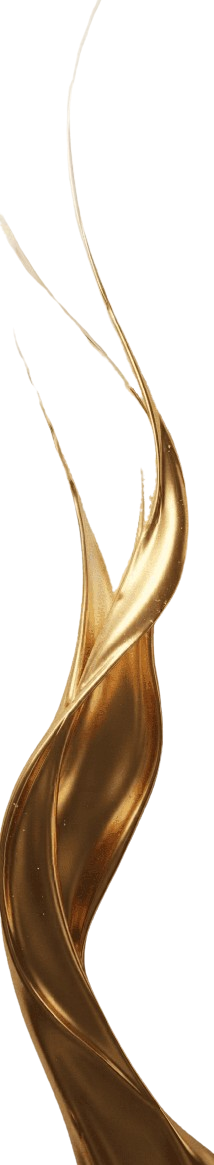
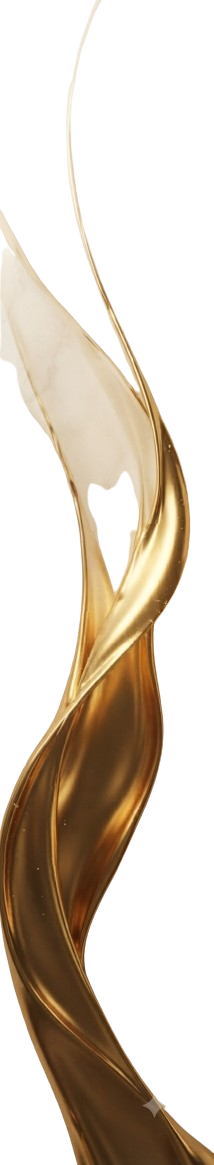
feat: enhance contact form layout and styling for improved user experience

diff --git a/components/ContactForm.tsx b/components/ContactForm.tsx
@@ -47,7 +47,7 @@ export function ContactSection() {
 	};
 
 	return (
-		<section className="relative flex min-h-[300px] items-center overflow-hidden bg-ivory py-6 lg:h-[350px] lg:py-0">
+		<section className="relative flex items-center overflow-hidden bg-ivory py-10 md:py-12 lg:py-16">
 			{/* ─── Arrière-plan — forme gauche dorée ─── */}
 			<motion.img
 				src="/assets/images/forme-left.png"
@@ -76,7 +76,7 @@ export function ContactSection() {
 			<div className="pointer-events-none absolute inset-y-0 left-1/2 z-10 hidden w-px -translate-x-1/2 bg-gradient-to-b from-transparent via-gold-deep/30 to-transparent lg:block" />
 
 			{/* ─── Lotus central ─── */}
-			<div className="pointer-events-none absolute left-1/2 top-1/2 z-20 hidden -translate-x-1/2 -translate-y-1/2 lg:flex lg:h-[72px] lg:w-[72px] lg:items-center lg:justify-center lg:rounded-full lg:border lg:border-gold-deep/20 lg:bg-ivory/90 lg:shadow-soft lg:backdrop-blur-sm">
+			<div className="pointer-events-none absolute left-1/2 top-1/2 z-20 hidden -translate-x-1/2 -translate-y-1/2 lg:flex lg:h-[90px] lg:w-[90px] lg:items-center lg:justify-center lg:rounded-full lg:border lg:border-gold-deep/20 lg:bg-ivory/90 lg:shadow-soft lg:backdrop-blur-sm">
 				<div className="absolute top-0 h-1 w-1 -translate-y-1/2 rounded-full bg-gold-deep/60" />
 				<div className="absolute bottom-0 h-1 w-1 translate-y-1/2 rounded-full bg-gold-deep/60" />
 				<div className="absolute left-0 h-1 w-1 -translate-x-1/2 rounded-full bg-gold-deep/60" />
@@ -86,7 +86,7 @@ export function ContactSection() {
 					src="/assets/images/lotus-middle.png"
 					alt=""
 					aria-hidden
-					className="relative h-8 w-8 drop-shadow-sm"
+					className="relative h-12 w-12 drop-shadow-sm"
 				/>
 			</div>
 
@@ -96,10 +96,10 @@ export function ContactSection() {
 				{/* ─── Colonne gauche — Formulaire ─── */}
 				<Reveal direction="left">
 					<div className="w-full lg:pr-16 xl:pr-24">
-						<span className="eyebrow inline-flex items-center gap-2 text-[9px] tracking-[0.15em]">
+						<span className="eyebrow inline-flex items-center gap-2 text-[10px] tracking-[0.15em]">
 							Écrivez-nous
 						</span>
-						<h2 className="mt-1 font-display text-2xl font-bold leading-[1.15] text-royal md:text-3xl">
+						<h2 className="mt-1.5 font-display text-3xl font-bold leading-[1.15] text-royal md:text-4xl">
 							Nous sommes là
 							<br />
 							pour vous.
@@ -122,43 +122,43 @@ export function ContactSection() {
 								</p>
 							</motion.div>
 						) : (
-							<form onSubmit={handleSubmit} className="mt-4 space-y-2.5">
-								<div className="grid grid-cols-1 gap-2.5 sm:grid-cols-2">
+							<form onSubmit={handleSubmit} className="mt-6 space-y-3.5">
+								<div className="grid grid-cols-1 gap-3.5 sm:grid-cols-2">
 									<input
 										name="fullname"
 										type="text"
 										required
 										placeholder="Nom complet"
-										className="w-full rounded-lg border border-slate-line/60 bg-white px-3 py-2 font-sans text-[11px] text-royal shadow-sm placeholder:text-slate-ink/40 transition-all focus:border-gold focus:outline-none focus:ring-1 focus:ring-gold/30"
+										className="w-full rounded-lg border border-slate-line/60 bg-white px-4 py-2.5 font-sans text-[13px] text-royal shadow-sm placeholder:text-slate-ink/40 transition-all focus:border-gold focus:outline-none focus:ring-1 focus:ring-gold/30"
 									/>
 									<input
 										name="phone"
 										type="tel"
 										placeholder="Téléphone"
-										className="w-full rounded-lg border border-slate-line/60 bg-white px-3 py-2 font-sans text-[11px] text-royal shadow-sm placeholder:text-slate-ink/40 transition-all focus:border-gold focus:outline-none focus:ring-1 focus:ring-gold/30"
+										className="w-full rounded-lg border border-slate-line/60 bg-white px-4 py-2.5 font-sans text-[13px] text-royal shadow-sm placeholder:text-slate-ink/40 transition-all focus:border-gold focus:outline-none focus:ring-1 focus:ring-gold/30"
 									/>
 								</div>
-								<div className="grid grid-cols-1 gap-2.5 sm:grid-cols-2">
+								<div className="grid grid-cols-1 gap-3.5 sm:grid-cols-2">
 									<input
 										name="email"
 										type="email"
 										required
 										placeholder="Email"
-										className="w-full rounded-lg border border-slate-line/60 bg-white px-3 py-2 font-sans text-[11px] text-royal shadow-sm placeholder:text-slate-ink/40 transition-all focus:border-gold focus:outline-none focus:ring-1 focus:ring-gold/30"
+										className="w-full rounded-lg border border-slate-line/60 bg-white px-4 py-2.5 font-sans text-[13px] text-royal shadow-sm placeholder:text-slate-ink/40 transition-all focus:border-gold focus:outline-none focus:ring-1 focus:ring-gold/30"
 									/>
 									<div className="relative">
 										<select
 											name="service"
 											required
-											className="w-full appearance-none rounded-lg border border-slate-line/60 bg-white px-3 py-2 pr-8 font-sans text-[11px] text-slate-ink/60 shadow-sm transition-all focus:border-gold focus:outline-none focus:ring-1 focus:ring-gold/30"
+											className="w-full appearance-none rounded-lg border border-slate-line/60 bg-white px-4 py-2.5 pr-8 font-sans text-[13px] text-slate-ink/60 shadow-sm transition-all focus:border-gold focus:outline-none focus:ring-1 focus:ring-gold/30"
 										>
 											<option value="">Sujet</option>
 											{services.map((s) => (
 												<option key={s} value={s}>{s}</option>
 											))}
 										</select>
-										<div className="pointer-events-none absolute inset-y-0 right-2.5 flex items-center text-slate-ink/40">
-											<svg className="h-3 w-3" fill="none" viewBox="0 0 24 24" stroke="currentColor">
+										<div className="pointer-events-none absolute inset-y-0 right-3 flex items-center text-slate-ink/40">
+											<svg className="h-4 w-4" fill="none" viewBox="0 0 24 24" stroke="currentColor">
 												<path strokeLinecap="round" strokeLinejoin="round" strokeWidth={2} d="M19 9l-7 7-7-7" />
 											</svg>
 										</div>
@@ -166,28 +166,28 @@ export function ContactSection() {
 								</div>
 								<textarea
 									name="message"
-									rows={2}
+									rows={3}
 									placeholder="Votre message"
-									className="w-full resize-none rounded-lg border border-slate-line/60 bg-white px-3 py-2 font-sans text-[11px] text-royal shadow-sm placeholder:text-slate-ink/40 transition-all focus:border-gold focus:outline-none focus:ring-1 focus:ring-gold/30"
+									className="w-full resize-none rounded-lg border border-slate-line/60 bg-white px-4 py-2.5 font-sans text-[13px] text-royal shadow-sm placeholder:text-slate-ink/40 transition-all focus:border-gold focus:outline-none focus:ring-1 focus:ring-gold/30"
 								/>
 
 								<motion.button
 									type="submit"
 									animate={{
 										boxShadow: [
-											"0 2px 8px rgba(201,162,39,.25)",
-											"0 2px 8px rgba(201,162,39,.25), 0 0 0 6px rgba(253,207,2,0.15)",
-											"0 2px 8px rgba(201,162,39,.25)",
+											"0 4px 14px rgba(201,162,39,.25)",
+											"0 4px 14px rgba(201,162,39,.25), 0 0 0 10px rgba(253,207,2,0.22)",
+											"0 4px 14px rgba(201,162,39,.25)",
 										],
 									}}
-									transition={{ duration: 1.2, repeat: Infinity, ease: "easeOut" }}
+									transition={{ duration: 1.1, repeat: Infinity, ease: "easeOut" }}
 									whileHover={{ scale: 1.02 }}
 									whileTap={{ scale: 0.98 }}
-									className="group relative flex w-full items-center justify-between overflow-hidden rounded-full bg-gradient-to-r from-gold-warm via-gold to-gold-warm px-1.5 py-1.5 pl-5 font-sans text-[10px] font-bold uppercase tracking-[0.08em] text-royal transition-all hover:shadow-md"
+									className="group relative flex w-full items-center justify-between overflow-hidden rounded-full bg-gradient-to-r from-gold-warm via-gold to-gold-warm px-2 py-2 pl-6 font-sans text-[12px] font-bold uppercase tracking-[0.08em] text-royal transition-all hover:shadow-lift"
 								>
 									<span className="flex-1 text-center">Envoyer le message</span>
-									<span className="flex h-7 w-7 shrink-0 items-center justify-center rounded-full bg-royal text-gold transition-transform duration-300 group-hover:translate-x-0.5 group-hover:bg-royal-light">
-										<svg className="h-3 w-3" xmlns="http://www.w3.org/2000/svg" viewBox="0 0 24 24" fill="currentColor">
+									<span className="flex h-[38px] w-[38px] shrink-0 items-center justify-center rounded-full bg-royal text-gold transition-transform duration-300 group-hover:translate-x-0.5 group-hover:bg-royal-light">
+										<svg className="h-4 w-4" xmlns="http://www.w3.org/2000/svg" viewBox="0 0 24 24" fill="currentColor">
 											<path d="M3.478 2.404a.75.75 0 0 0-.926.941l2.432 7.905H13.5a.75.75 0 0 1 0 1.5H4.984l-2.432 7.905a.75.75 0 0 0 .926.94 60.519 60.519 0 0 0 18.445-8.986.75.75 0 0 0 0-1.218A60.517 60.517 0 0 0 3.478 2.404Z" />
 										</svg>
 									</span>
@@ -207,25 +207,25 @@ export function ContactSection() {
 				{/* ─── Colonne droite — Coordonnées ─── */}
 				<Reveal direction="right">
 					<div className="w-full lg:pl-16 xl:pl-24">
-						<div className="mx-auto max-w-[320px] rounded-2xl bg-gradient-to-br from-gold/15 via-gold-warm/10 to-gold-deep/15 p-5 shadow-card ring-1 ring-gold/10 backdrop-blur-sm lg:mx-0">
-							<span className="eyebrow inline-flex items-center gap-1.5 text-[8px]">
-								<span className="h-px w-4 bg-gold-deep/60" aria-hidden />
+						<div className="mx-auto max-w-[360px] rounded-3xl bg-gradient-to-br from-gold/15 via-gold-warm/10 to-gold-deep/15 p-7 shadow-card ring-1 ring-gold/10 backdrop-blur-sm lg:mx-0">
+							<span className="eyebrow inline-flex items-center gap-2 text-[9px]">
+								<span className="h-px w-5 bg-gold-deep/60" aria-hidden />
 								Nos coordonnées
 							</span>
 
-							<div className="mt-4 flex flex-col gap-3.5">
+							<div className="mt-5 flex flex-col gap-5">
 								{contactItems.map((item) => (
-									<div key={item.label} className="flex items-start gap-3">
-										<div className="flex h-8 w-8 shrink-0 items-center justify-center rounded-full bg-royal text-gold shadow-md">
-											<item.icon size={13} strokeWidth={1.5} />
+									<div key={item.label} className="flex items-start gap-3.5">
+										<div className="flex h-10 w-10 shrink-0 items-center justify-center rounded-full bg-royal text-gold shadow-md">
+											<item.icon size={16} strokeWidth={1.5} />
 										</div>
 										<div className="pt-0.5">
-											<p className="font-sans text-[8px] font-bold uppercase tracking-[0.1em] text-gold-deep">
+											<p className="font-sans text-[9px] font-bold uppercase tracking-[0.1em] text-gold-deep">
 												{item.label}
 											</p>
-											<div className="mt-0.5">
+											<div className="mt-1">
 												{item.lines.map((line) => (
-													<p key={line} className="font-sans text-[10px] font-medium leading-tight text-royal">
+													<p key={line} className="font-sans text-[12px] font-medium leading-relaxed text-royal">
 														{line}
 													</p>
 												))}
@@ -235,23 +235,23 @@ export function ContactSection() {
 								))}
 
 								{/* Réseaux sociaux */}
-								<div className="flex items-start gap-3">
-									<div className="flex h-8 w-8 shrink-0 items-center justify-center rounded-full bg-royal text-gold shadow-md">
-										<Share2 size={13} strokeWidth={1.5} />
+								<div className="flex items-start gap-3.5">
+									<div className="flex h-10 w-10 shrink-0 items-center justify-center rounded-full bg-royal text-gold shadow-md">
+										<Share2 size={16} strokeWidth={1.5} />
 									</div>
 									<div className="pt-0.5">
-										<p className="font-sans text-[8px] font-bold uppercase tracking-[0.1em] text-gold-deep">
+										<p className="font-sans text-[9px] font-bold uppercase tracking-[0.1em] text-gold-deep">
 											Suivez-nous
 										</p>
-										<div className="mt-1.5 flex gap-2">
-											<a href={site.instagram} target="_blank" rel="noopener noreferrer" className="flex h-6 w-6 items-center justify-center rounded-full bg-white text-royal shadow-sm ring-1 ring-slate-line/30 transition-all hover:bg-royal hover:text-gold hover:ring-royal" aria-label="Instagram">
-												<svg className="h-2.5 w-2.5" fill="currentColor" viewBox="0 0 24 24"><path d="M12 2.163c3.204 0 3.584.012 4.85.07 3.252.148 4.771 1.691 4.919 4.919.058 1.265.069 1.645.069 4.849 0 3.205-.012 3.584-.069 4.849-.149 3.225-1.664 4.771-4.919 4.919-1.266.058-1.644.07-4.85.07-3.204 0-3.584-.012-4.849-.07-3.26-.149-4.771-1.699-4.919-4.92-.058-1.265-.07-1.644-.07-4.849 0-3.204.013-3.583.07-4.849.149-3.227 1.664-4.771 4.919-4.919 1.266-.057 1.645-.069 4.849-.069zM12 0C8.741 0 8.333.014 7.053.072 2.695.272.273 2.69.073 7.052.014 8.333 0 8.741 0 12c0 3.259.014 3.668.072 4.948.2 4.358 2.618 6.78 6.98 6.98C8.333 23.986 8.741 24 12 24c3.259 0 3.668-.014 4.948-.072 4.354-.2 6.782-2.618 6.979-6.98.059-1.28.073-1.689.073-4.948 0-3.259-.014-3.667-.072-4.947-.196-4.354-2.617-6.78-6.979-6.98C15.668.014 15.259 0 12 0zm0 5.838a6.162 6.162 0 100 12.324 6.162 6.162 0 000-12.324zM12 16a4 4 0 110-8 4 4 0 010 8zm6.406-11.845a1.44 1.44 0 100 2.881 1.44 1.44 0 000-2.881z"/></svg>
+										<div className="mt-1.5 flex gap-2.5">
+											<a href={site.instagram} target="_blank" rel="noopener noreferrer" className="flex h-7 w-7 items-center justify-center rounded-full bg-white text-royal shadow-sm ring-1 ring-slate-line/30 transition-all hover:bg-royal hover:text-gold hover:ring-royal" aria-label="Instagram">
+												<svg className="h-3 w-3" fill="currentColor" viewBox="0 0 24 24"><path d="M12 2.163c3.204 0 3.584.012 4.85.07 3.252.148 4.771 1.691 4.919 4.919.058 1.265.069 1.645.069 4.849 0 3.205-.012 3.584-.069 4.849-.149 3.225-1.664 4.771-4.919 4.919-1.266.058-1.644.07-4.85.07-3.204 0-3.584-.012-4.849-.07-3.26-.149-4.771-1.699-4.919-4.92-.058-1.265-.07-1.644-.07-4.849 0-3.204.013-3.583.07-4.849.149-3.227 1.664-4.771 4.919-4.919 1.266-.057 1.645-.069 4.849-.069zM12 0C8.741 0 8.333.014 7.053.072 2.695.272.273 2.69.073 7.052.014 8.333 0 8.741 0 12c0 3.259.014 3.668.072 4.948.2 4.358 2.618 6.78 6.98 6.98C8.333 23.986 8.741 24 12 24c3.259 0 3.668-.014 4.948-.072 4.354-.2 6.782-2.618 6.979-6.98.059-1.28.073-1.689.073-4.948 0-3.259-.014-3.667-.072-4.947-.196-4.354-2.617-6.78-6.979-6.98C15.668.014 15.259 0 12 0zm0 5.838a6.162 6.162 0 100 12.324 6.162 6.162 0 000-12.324zM12 16a4 4 0 110-8 4 4 0 010 8zm6.406-11.845a1.44 1.44 0 100 2.881 1.44 1.44 0 000-2.881z"/></svg>
 											</a>
-											<a href={site.facebook} target="_blank" rel="noopener noreferrer" className="flex h-6 w-6 items-center justify-center rounded-full bg-white text-royal shadow-sm ring-1 ring-slate-line/30 transition-all hover:bg-royal hover:text-gold hover:ring-royal" aria-label="Facebook">
-												<svg className="h-2.5 w-2.5" fill="currentColor" viewBox="0 0 24 24"><path d="M24 12.073c0-6.627-5.373-12-12-12s-12 5.373-12 12c0 5.99 4.388 10.954 10.125 11.854v-8.385H7.078v-3.47h3.047V9.43c0-3.007 1.792-4.669 4.533-4.669 1.312 0 2.686.235 2.686.235v2.953H15.83c-1.491 0-1.956.925-1.956 1.874v2.25h3.328l-.532 3.47h-2.796v8.385C19.612 23.027 24 18.062 24 12.073z"/></svg>
+											<a href={site.facebook} target="_blank" rel="noopener noreferrer" className="flex h-7 w-7 items-center justify-center rounded-full bg-white text-royal shadow-sm ring-1 ring-slate-line/30 transition-all hover:bg-royal hover:text-gold hover:ring-royal" aria-label="Facebook">
+												<svg className="h-3 w-3" fill="currentColor" viewBox="0 0 24 24"><path d="M24 12.073c0-6.627-5.373-12-12-12s-12 5.373-12 12c0 5.99 4.388 10.954 10.125 11.854v-8.385H7.078v-3.47h3.047V9.43c0-3.007 1.792-4.669 4.533-4.669 1.312 0 2.686.235 2.686.235v2.953H15.83c-1.491 0-1.956.925-1.956 1.874v2.25h3.328l-.532 3.47h-2.796v8.385C19.612 23.027 24 18.062 24 12.073z"/></svg>
 											</a>
-											<a href={site.tiktok} target="_blank" rel="noopener noreferrer" className="flex h-6 w-6 items-center justify-center rounded-full bg-white text-royal shadow-sm ring-1 ring-slate-line/30 transition-all hover:bg-royal hover:text-gold hover:ring-royal" aria-label="TikTok">
-												<svg className="h-2.5 w-2.5" fill="currentColor" viewBox="0 0 24 24"><path d="M19.59 6.69a4.83 4.83 0 01-3.77-4.25V2h-3.45v13.67a2.89 2.89 0 01-2.88 2.5 2.89 2.89 0 01-2.89-2.89 2.89 2.89 0 012.89-2.89c.28 0 .54.04.79.1v-3.5a6.37 6.37 0 00-.79-.05A6.34 6.34 0 003.15 15.2a6.34 6.34 0 006.34 6.34 6.34 6.34 0 006.34-6.34V8.54a8.21 8.21 0 004.76 1.52V6.61a4.83 4.83 0 01-1-.08z"/></svg>
+											<a href={site.tiktok} target="_blank" rel="noopener noreferrer" className="flex h-7 w-7 items-center justify-center rounded-full bg-white text-royal shadow-sm ring-1 ring-slate-line/30 transition-all hover:bg-royal hover:text-gold hover:ring-royal" aria-label="TikTok">
+												<svg className="h-3 w-3" fill="currentColor" viewBox="0 0 24 24"><path d="M19.59 6.69a4.83 4.83 0 01-3.77-4.25V2h-3.45v13.67a2.89 2.89 0 01-2.88 2.5 2.89 2.89 0 01-2.89-2.89 2.89 2.89 0 012.89-2.89c.28 0 .54.04.79.1v-3.5a6.37 6.37 0 00-.79-.05A6.34 6.34 0 003.15 15.2a6.34 6.34 0 006.34 6.34 6.34 6.34 0 006.34-6.34V8.54a8.21 8.21 0 004.76 1.52V6.61a4.83 4.83 0 01-1-.08z"/></svg>
 											</a>
 										</div>
 									</div>